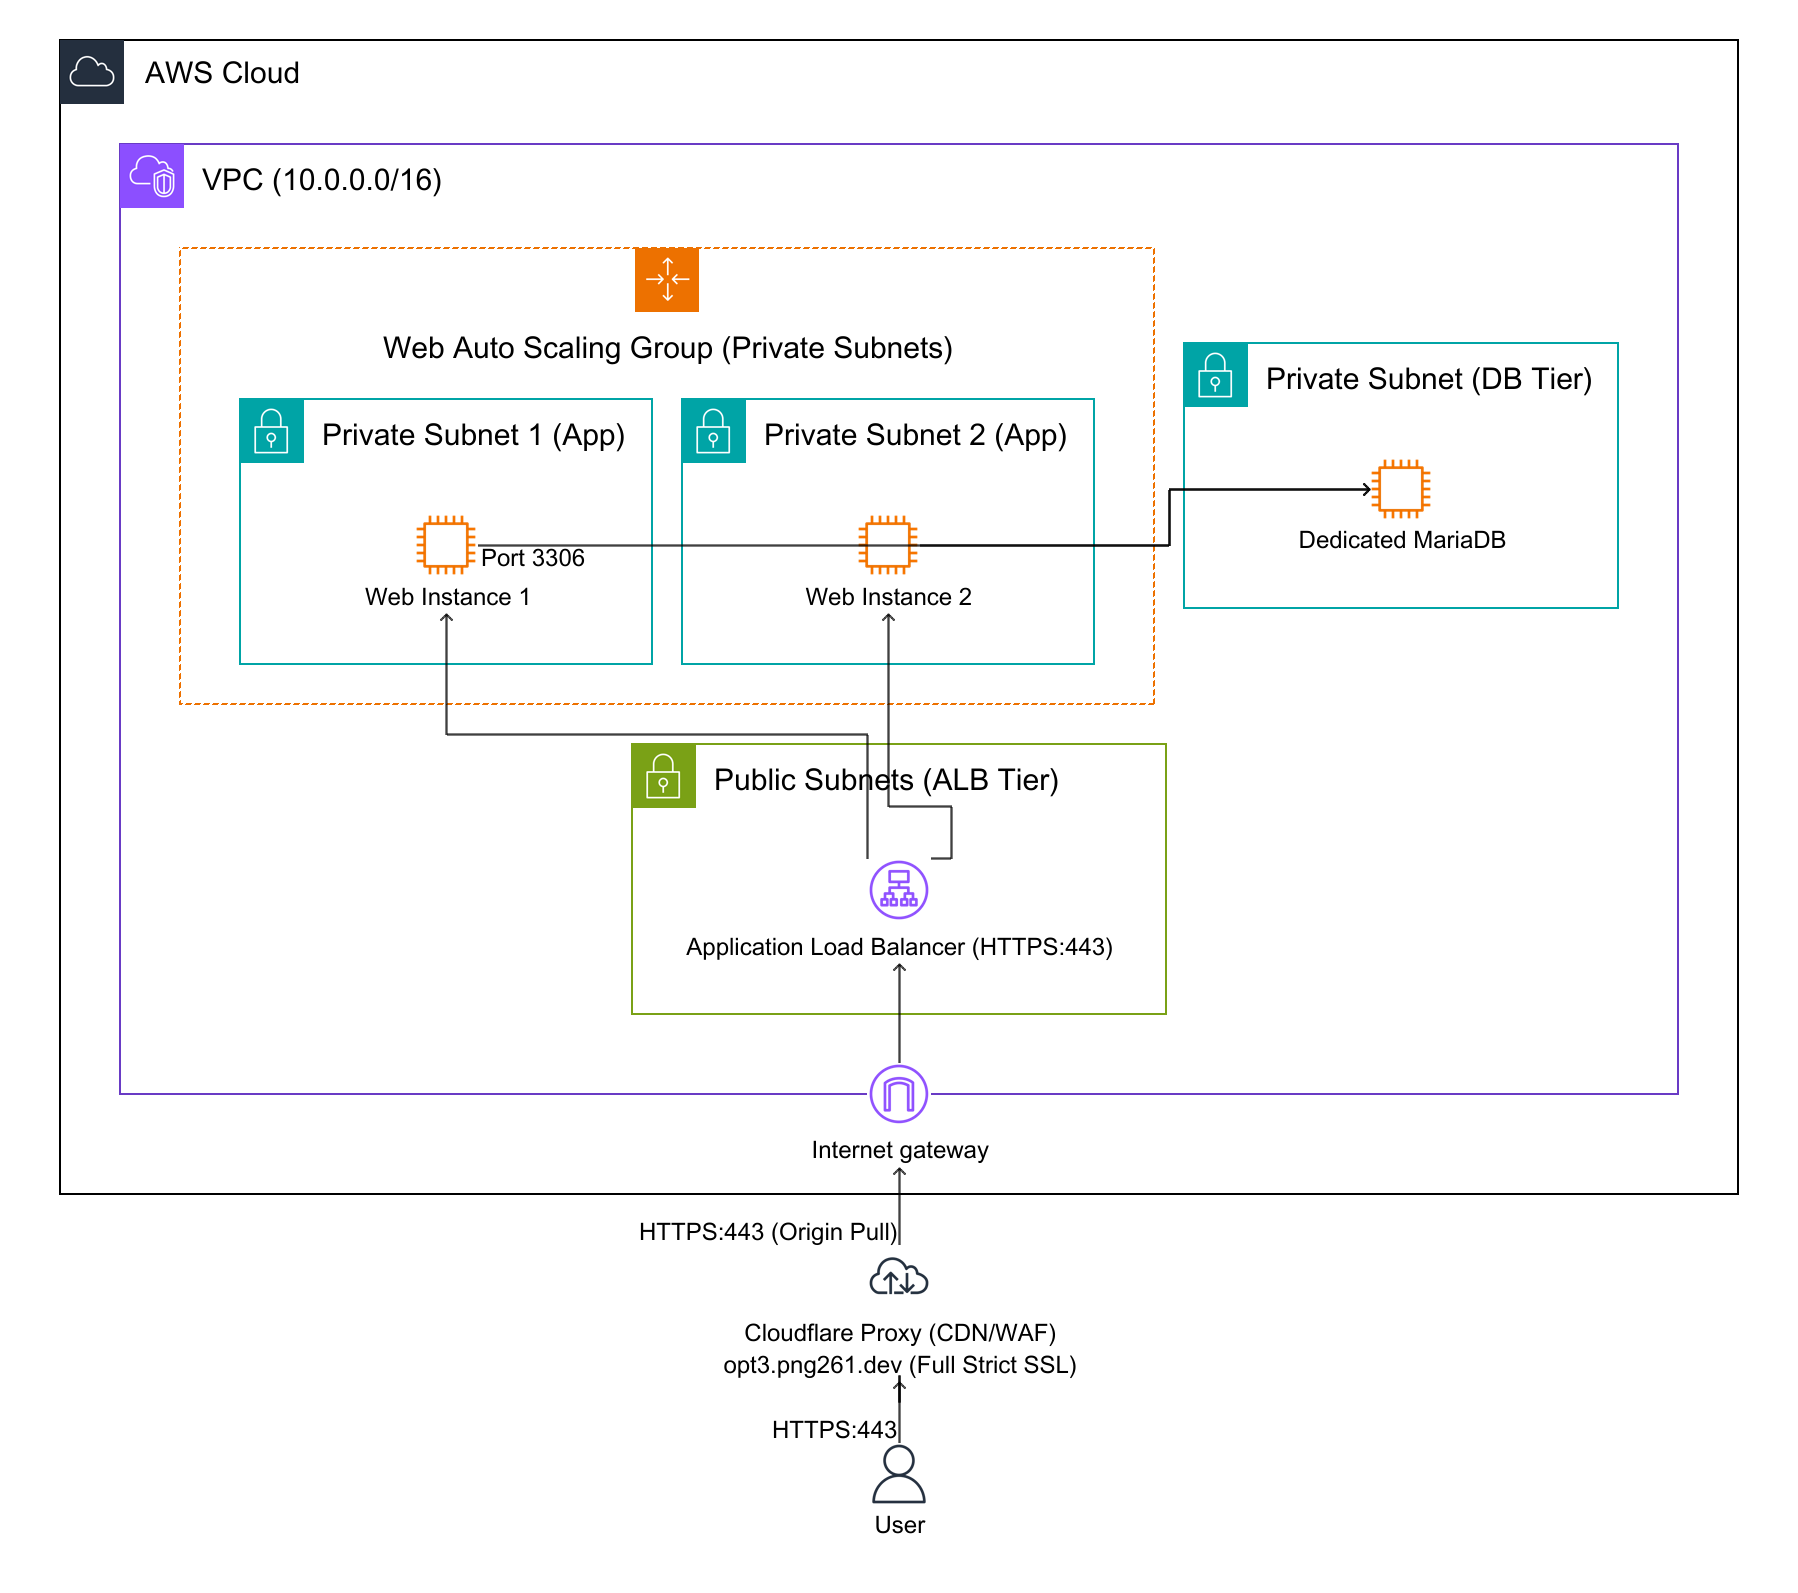
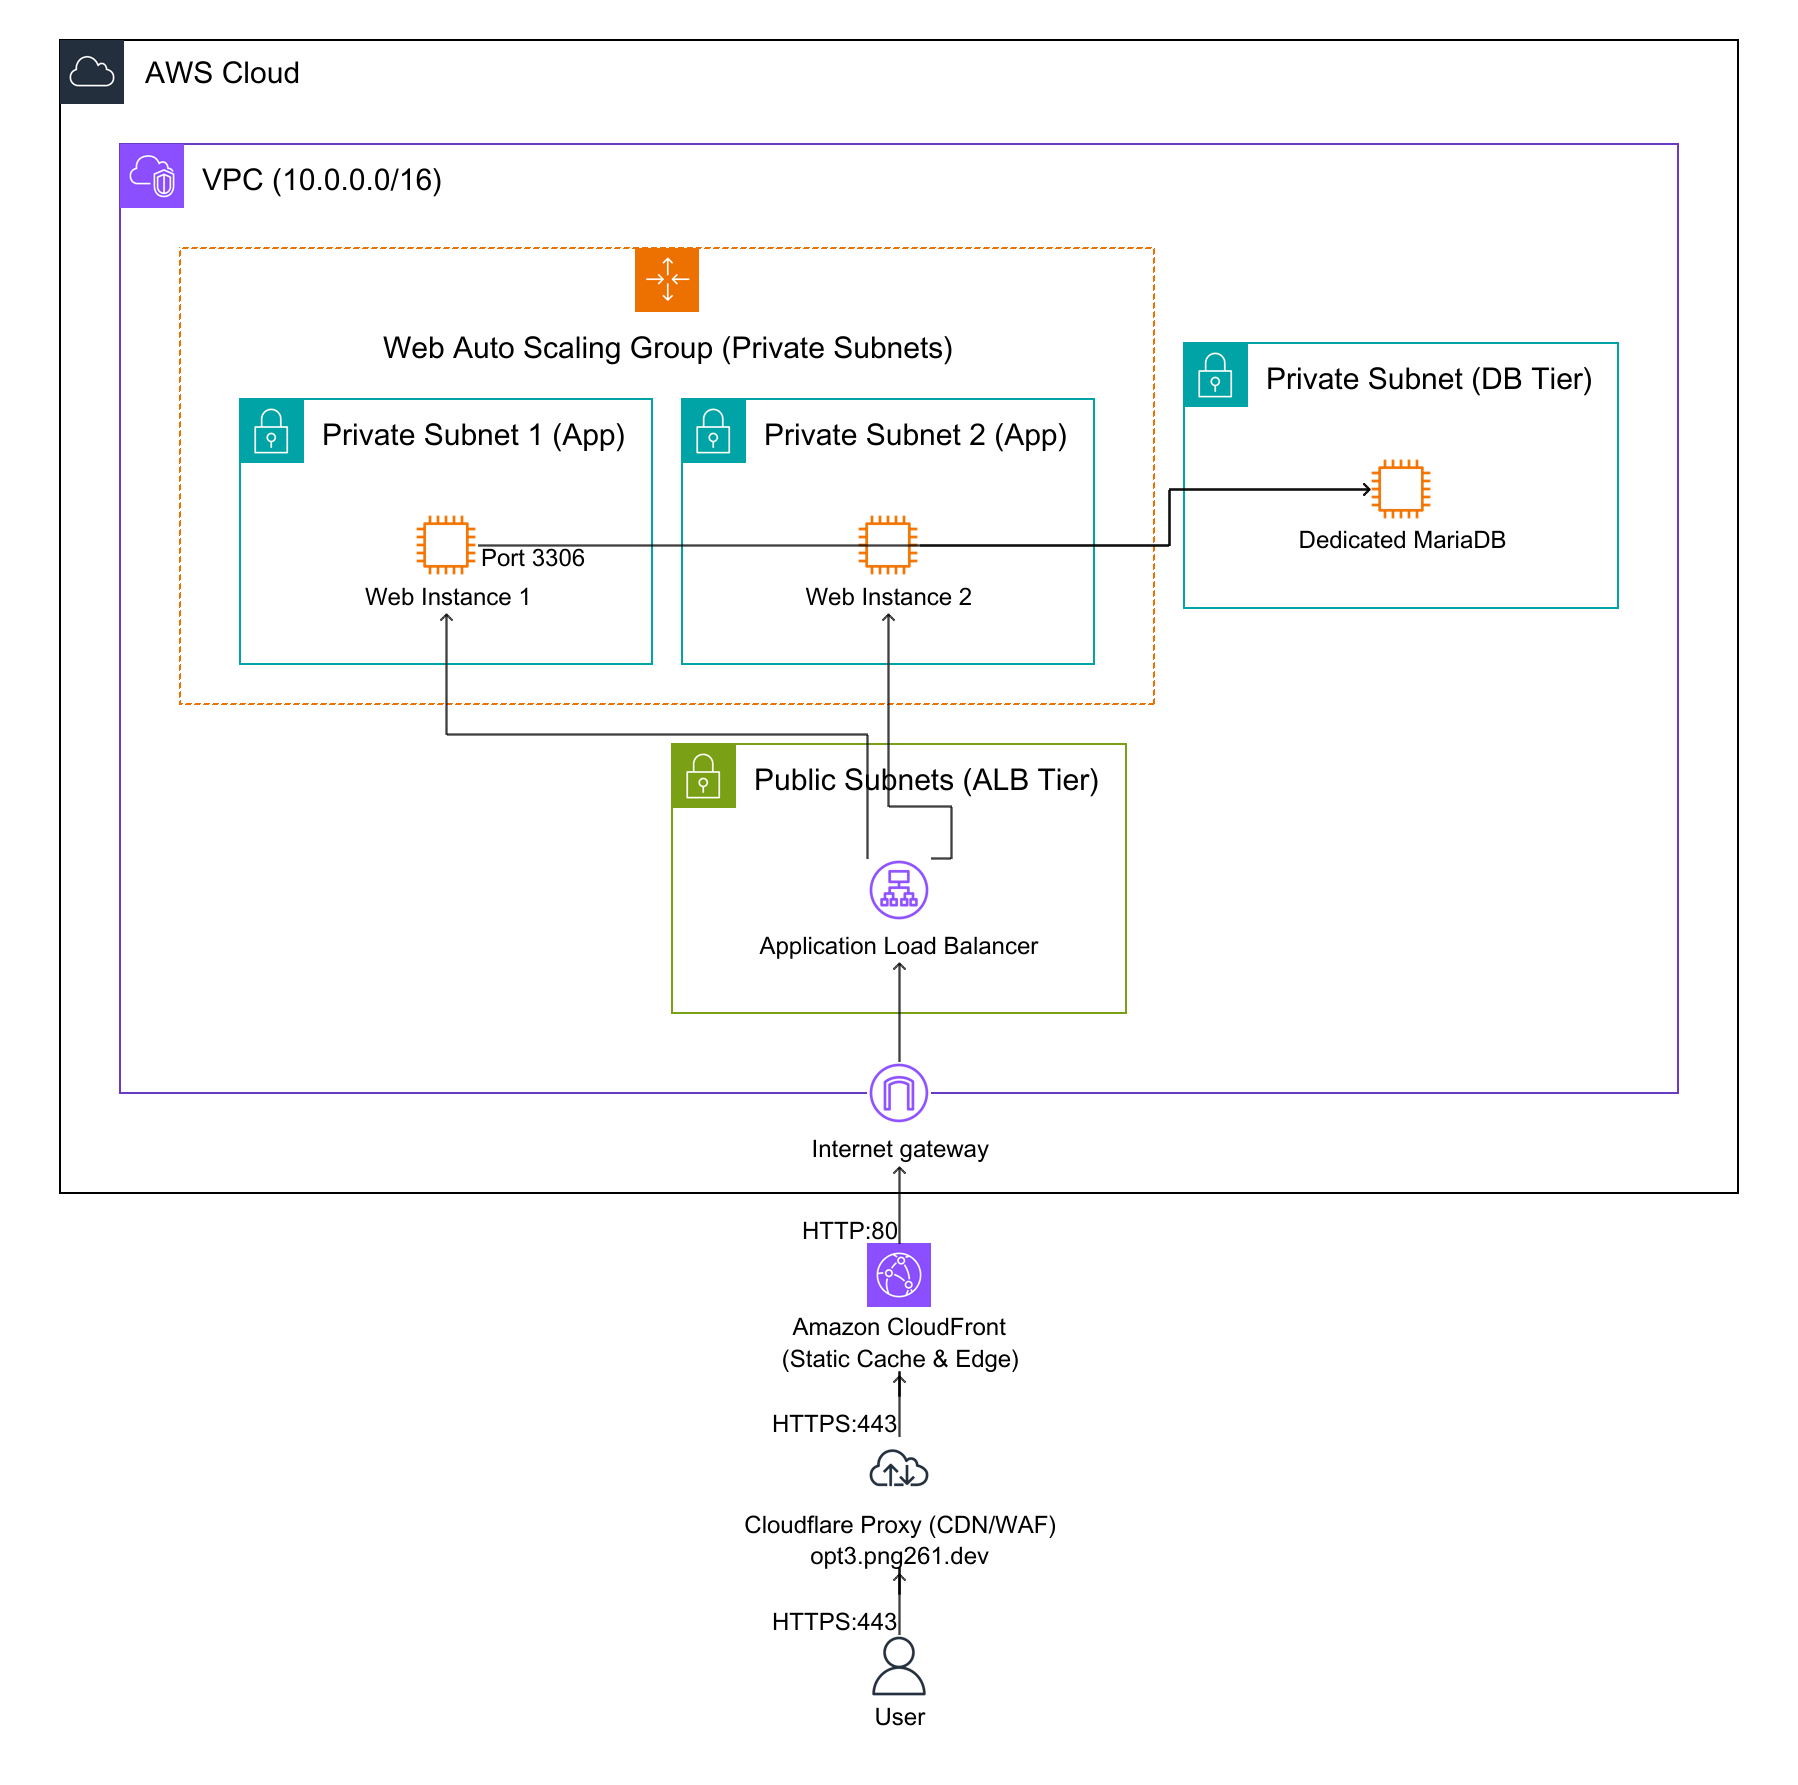
feat(infra): add CloudFront edge caching and update architecture diagram for Option 3

diff --git a/README.md b/README.md
@@ -34,9 +34,15 @@ No costed resources detected.
 ```
 <!-- INFRACOST_END -->
 
-## 3. Kiến trúc Hạ tầng (Architecture Diagram)
+### 3. Kiến trúc Hạ tầng (Architecture Diagram)
 ![Architecture](infra/architecture_diagram.png)
 
+### Điểm nổi bật của kiến trúc:
+- **CloudFront CDN Edge Caching:** Caching tối ưu cho static assets (`/_next/static/*`, `/static/*`), giảm tải 80-90% lượng request vào cụm máy chủ gốc, cải thiện TTFB và tăng tốc độ tải trang toàn cầu.
+- **Application Load Balancer (ALB):** Nằm tại Public Subnets (Multi-AZ), cân bằng tải lưu lượng truy cập HTTP/HTTPS vào các EC2 instances trong Auto Scaling Group.
+- **Web Auto Scaling Group (ASG):** Nằm an toàn trong **Private Subnets (AZ1 & AZ2)**, tự động scale số lượng EC2 instances dựa theo ngưỡng CPU utilization (70%).
+- **Dedicated MariaDB EC2:** Đặt trong **Private Subnet**, chỉ cho phép truy cập cổng 3306 từ Security Group của Web Tier.
+- **Cloudflare Proxy + Custom Domain:** Định tuyến người dùng qua Cloudflare CDN/WAF tới CloudFront / ALB endpoint.
 
 ## 📸 Giao Diện Ứng Dụng Thực Tế (Live Screenshots - Dev & Prod)
 
@@ -45,15 +51,15 @@ No costed resources detected.
 | ![Development Environment](screenshots/dev_screenshot.png) | ![Production Environment](screenshots/prod_screenshot.png) |
 
 > 🚀 **Ghi chú triển khai:**
-> - **Môi trường Dev (`opt3-dev.png261.dev`):** Chạy chế độ debug/development, kết nối cơ sở dữ liệu Dev, phục vụ kiểm thử tính năng mới.
-> - **Môi trường Prod (`opt3.png261.dev`):** Chạy chế độ production tối ưu hóa hiệu năng cao, bảo mật nghiêm ngặt qua Cloudflare SSL/HTTPS.
+> - **Môi trường Dev (`opt3-dev.png261.dev`):** Chạy chế độ debug/development, Auto Scaling Min 1 - Max 2 instance.
+> - **Môi trường Prod (`opt3.png261.dev`):** Chạy chế độ production tối ưu hóa hiệu năng cao, Auto Scaling Min 2 - Max 6 instances, bảo mật nghiêm ngặt qua Cloudflare SSL/HTTPS.
 
 
 ## ⚛ Ứng Dụng React & Quy Trình Đóng Gói Docker / Amazon ECR
 
 ### 1. Kiến trúc Ứng dụng Web
 - **Tên ứng dụng:** **ClusterMesh 2-Tier VPC Architecture Portal**
-- **Mô tả:** Cổng giám sát cấu trúc VPC 2 tầng tách biệt Web EC2 (Public Subnet) và Database MariaDB EC2 (Private Subnet). Giao diện React hiển thị trực quan luồng traffic qua Security Group.
+- **Mô tả:** Cổng giám sát cấu trúc VPC 2 tầng tách biệt Web EC2 (Private Subnets) và Database MariaDB EC2 (Private Subnet). Giao diện React hiển thị trực quan luồng traffic qua Security Group.
 - **Công nghệ Frontend:** React 18, Vite, Lucide Icons, Modern CSS Grid & Flexbox.
 - **Backend & API:** Node.js Express phục vụ REST API và Single Page Application (SPA).
 - **Cơ sở dữ liệu:** Dedicated MariaDB 10.5 chạy trên EC2 độc lập trong Private Subnet.
@@ -79,12 +85,12 @@ Quy trình tuân thủ nghiêm ngặt chuẩn DevOps hiện đại:
 Hạ tầng hỗ trợ ánh xạ tên miền `png261.dev` cho cả môi trường Development và Production:
 
 | Môi trường | Nhánh Git | Subdomain | Loại bản ghi DNS | Giá trị đích (Target) | Proxy Cloudflare |
-| :--- | :--- | :--- | :---: | :--- | :---: |
-| **Development** | `dev` | `opt3-dev.png261.dev` | `A` | `${WebServerEIP.PublicIp}` (Dev EIP) | Bật (Proxied ☁) |
-| **Production** | `main` | `opt3.png261.dev` | `A` | `${WebServerEIP.PublicIp}` (Prod EIP) | Bật (Proxied ☁) |
+| :--- | :--- | :--- | :---: | :--- | :--- |
+| **Development** | `dev` | `opt3-dev.png261.dev` | `CNAME` | `${CloudFrontDistribution.DomainName}` / ALB DNS | Bật (Proxied ☁) |
+| **Production** | `main` | `opt3.png261.dev` | `CNAME` | `${CloudFrontDistribution.DomainName}` / ALB DNS | Bật (Proxied ☁) |
 
 > 💡 **Khuyến nghị SSL/HTTPS qua Cloudflare:**
-> Do tên miền `png261.dev` được quản trị Nameserver tại Cloudflare, khi tạo bản ghi `A` với trạng thái **Proxied (Đám mây màu cam ☁)**:
+> Do tên miền `png261.dev` được quản trị Nameserver tại Cloudflare, khi tạo bản ghi `CNAME` với trạng thái **Proxied (Đám mây màu cam ☁)**:
 > - Cloudflare sẽ tự động cấp chứng chỉ **Universal SSL/TLS miễn phí** (HTTPS xanh).
 > - Tự động kích hoạt CDN caching và bảo vệ chống tấn công DDoS Lớp 7.
 
